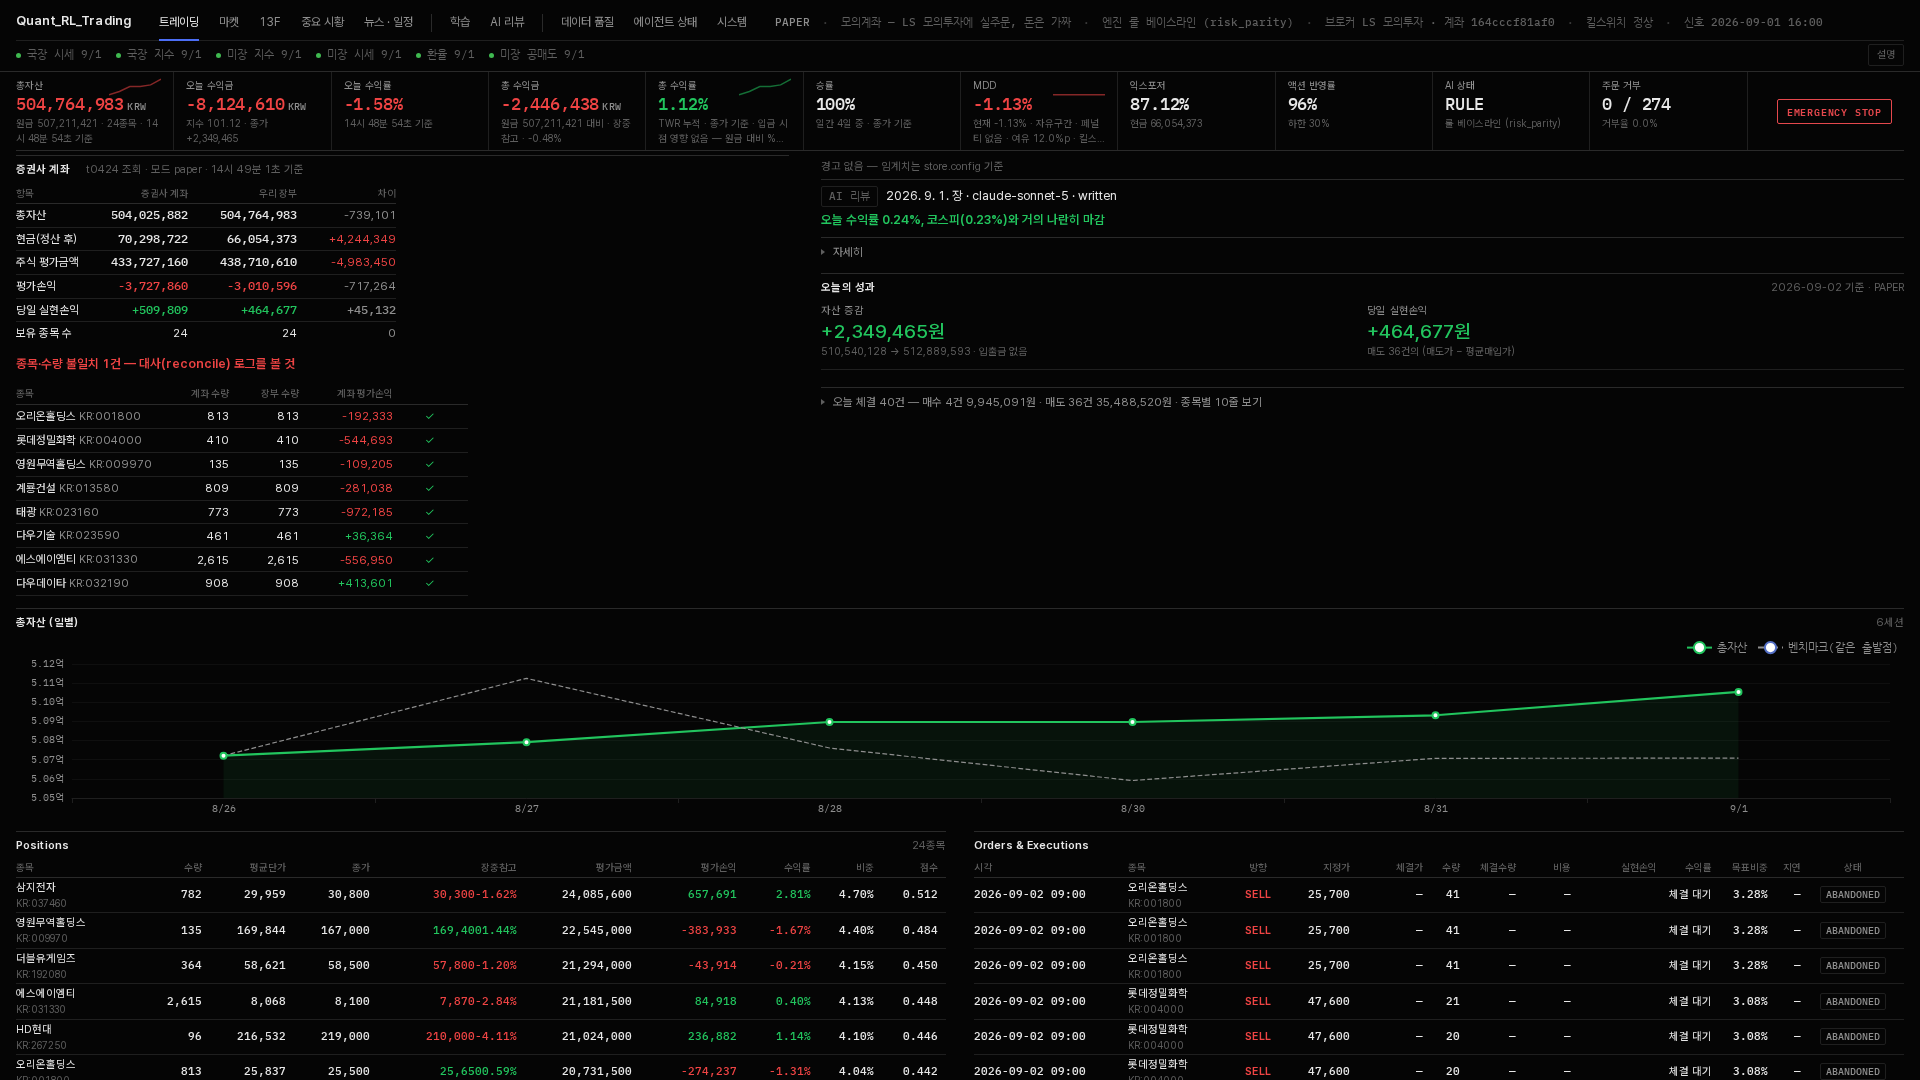
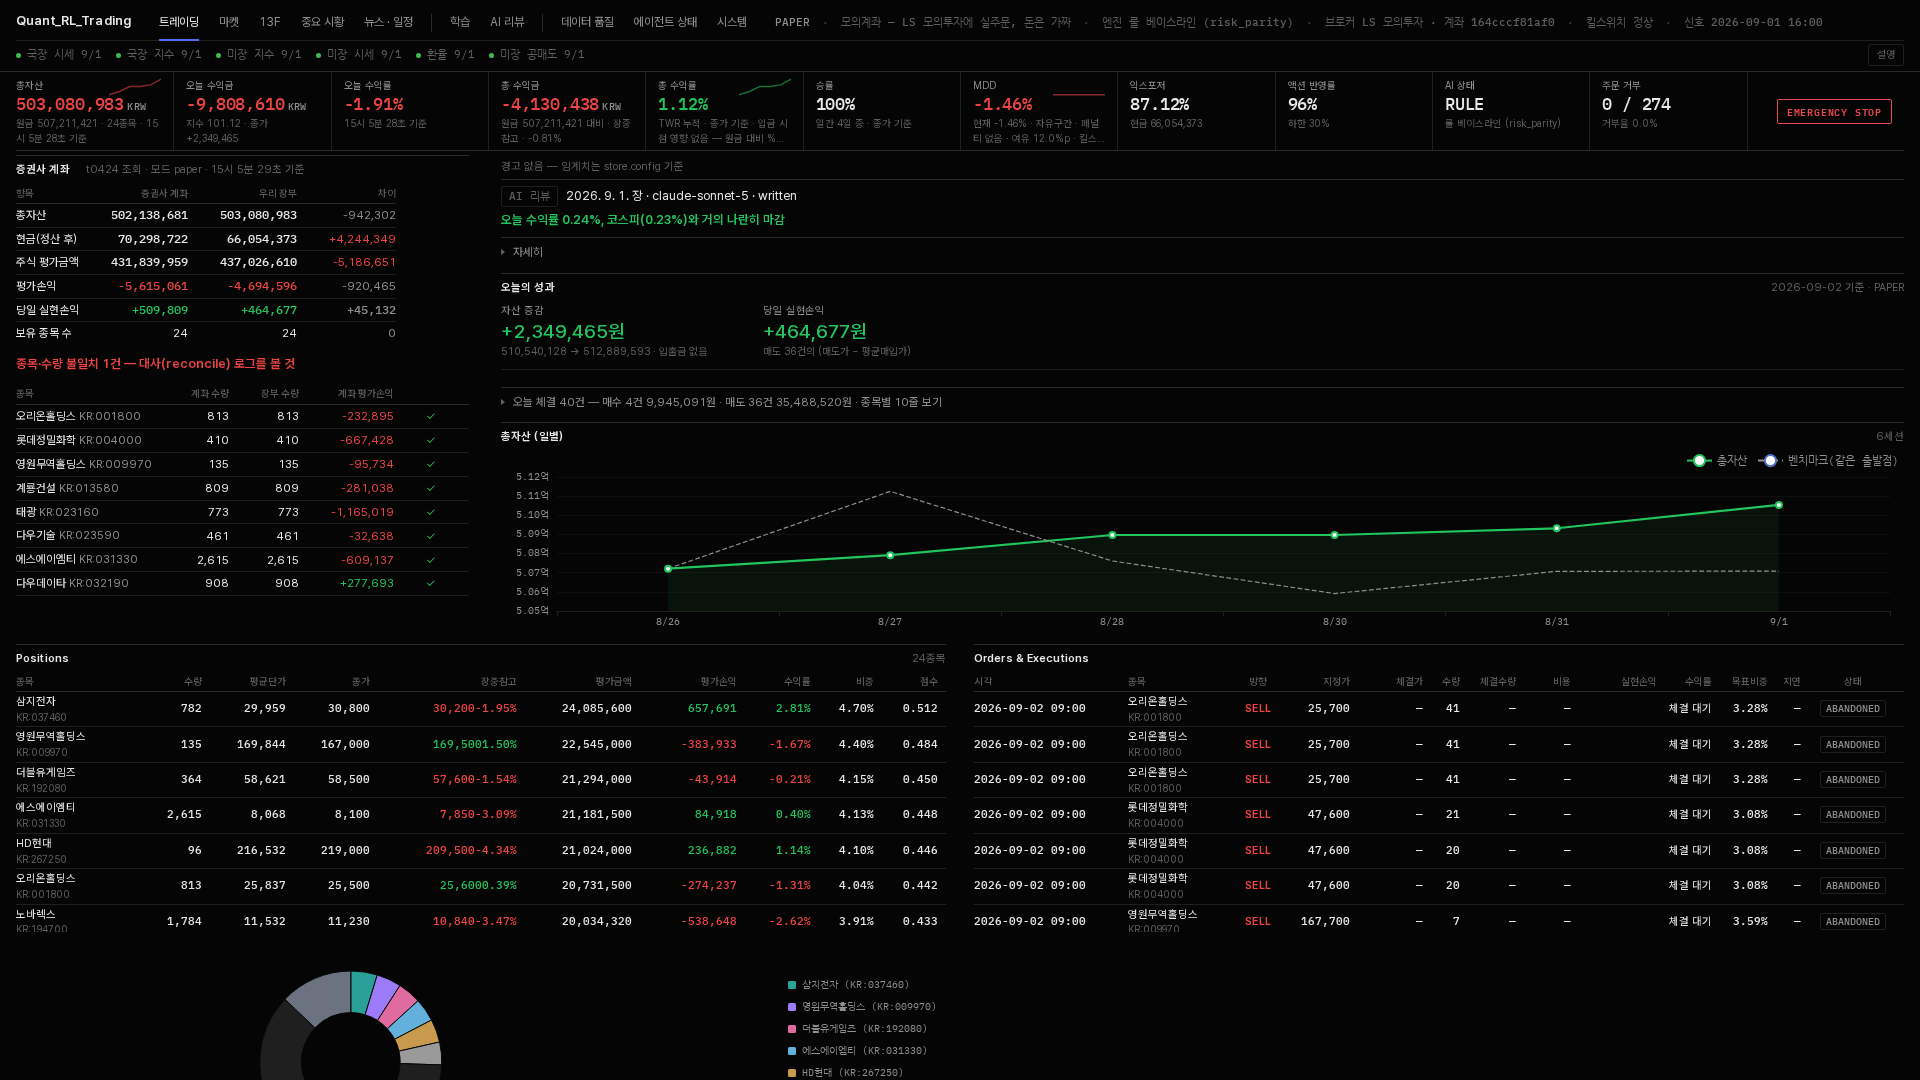
design(dashboard): 트레이딩 L 자 공백 제거 — 왼쪽은 표 폭, 오른쪽에 자산 곡선; 차트는 컨테이너 크기를 따라 다시 잰다
Claude-Session: https://claude.ai/code/session_01WXHLDR8wjUqzXXaXS72m57

diff --git a/quant_rl_trading/dashboard/static/sheet.css b/quant_rl_trading/dashboard/static/sheet.css
@@ -316,7 +316,8 @@ tbody tr:hover td { background: #0c0c0c; }
   #account-kpis td, #account-kpis th, #perf-fills td, #perf-fills th { padding-right: 32px; }
   #account-kpis td:last-child, #account-kpis th:last-child,
   #perf-fills td:last-child, #perf-fills th:last-child { padding-right: 0; }
-  .perf-summary { display: flex; flex-wrap: wrap; gap: 4px 48px; }
+  /* 탭 CSS(trading.css)가 뒤에 실려 grid 로 되돌린다 — id 로 이긴다. */
+  #perf-summary.perf-summary { display: flex; flex-wrap: wrap; gap: 4px 56px; }
   .perf-cell { min-width: 180px; }
   .alerts { margin: 4px 0 2px; }
   .panel.review { padding: 8px 0; }
@@ -324,7 +325,10 @@ tbody tr:hover td { background: #0c0c0c; }
 }
 
 /* 트레이딩 탭 머리 — 계좌 대조 | 경고·리뷰·성과. */
-.grid-top { display: grid; grid-template-columns: minmax(0, 5fr) minmax(0, 7fr); column-gap: 40px; align-items: start; }
+/* 왼쪽은 표 폭만큼(max-content), 나머지는 오른쪽이 다 쓴다 — 5:7 로 나누면 표 옆이 비어
+   L 자 공백이 생겼다(2026-09-02 사용자 지적). 오른쪽엔 리뷰·성과·자산 곡선이 세로를 채운다. */
+.grid-top { display: grid; grid-template-columns: max-content minmax(0, 1fr); column-gap: 40px; align-items: start; }
+.grid-top-left { max-width: 46vw; }
 .grid-top > div { min-width: 0; }
 @media (max-width: 1100px) { .grid-top { grid-template-columns: minmax(0, 1fr); } }
 .kpi-stop button { white-space: nowrap; padding: 7px 10px; }
@@ -365,3 +369,6 @@ tbody tr:hover td { background: #0c0c0c; }
   header .statusbar .badge:nth-child(4) { display: none; }
   header .statusbar .badge:nth-child(5)::before { content: "·"; color: var(--faint); margin-right: 10px; }
 }
+
+.grid-top-right { min-width: 0; }
+#chart-equity { width: 100%; }

diff --git a/quant_rl_trading/dashboard/static/scope.js b/quant_rl_trading/dashboard/static/scope.js
@@ -85,7 +85,14 @@ function ensureSheetTheme() {
 function chart(id) {
   if (!charts[id]) {
     ensureSheetTheme();
-    charts[id] = echarts.init(document.getElementById(id), "sheet", { renderer: "canvas" });
+    const el = document.getElementById(id);
+    charts[id] = echarts.init(el, "sheet", { renderer: "canvas" });
+    // 칸 폭이 나중에 바뀐다 — 옆 칸의 표가 그려진 뒤 그리드가 다시 잡히면 차트가
+    // 먼저 잰 폭으로 남아 칸 밖으로 넘친다(2026-09-02 트레이딩 탭 실측). 컨테이너를
+    // 직접 관찰해 다시 잰다. window resize 만으로는 이 경우를 못 잡는다.
+    if (window.ResizeObserver) {
+      new ResizeObserver(() => { if (charts[id]) charts[id].resize(); }).observe(el);
+    }
   }
   return charts[id];
 }

diff --git a/quant_rl_trading/dashboard/templates/trading.html b/quant_rl_trading/dashboard/templates/trading.html
@@ -55,8 +55,6 @@
     </p>
   </section>
 
-    </div>
-  </section>
   {# 총자산 일별 꺾은선 — 원 단위, 한 축 (사용자 요청 2026-08-28: 지수+낙폭 두 축은 읽기 어렵다) #}
   <section class="panel" id="panel-equity">
     <div>
@@ -69,7 +67,8 @@
       </p>
     </div>
   </section>
-
+    </div>
+  </section>
   <section class="grid-half">
     <div class="panel">
       <h2>Positions
